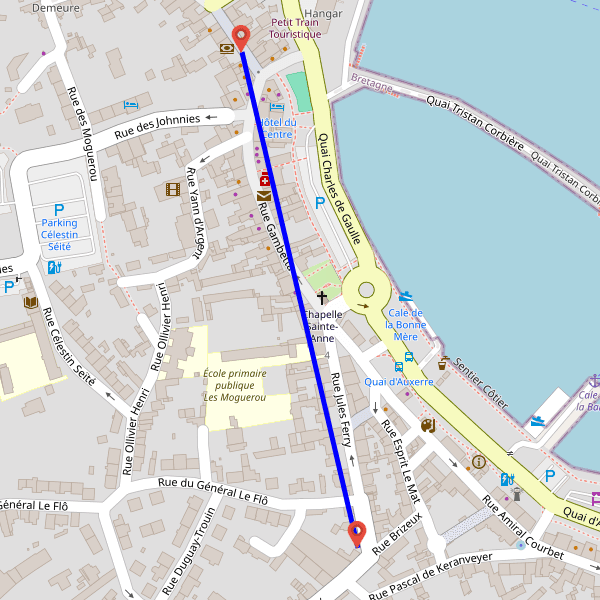
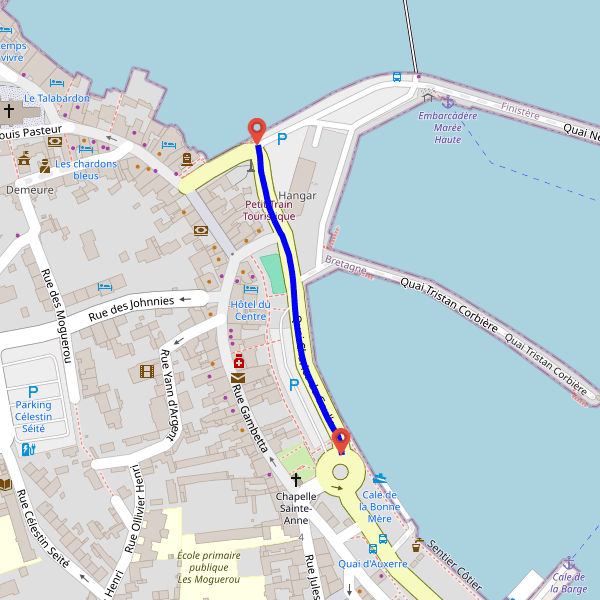
example images

diff --git a/README.md b/README.md
@@ -47,8 +47,8 @@ With the parameter `polyline` you can define a polyline with atleast two pairs o
 `polyline=polylineStyles|polylineLocation1|polylineLocation2|...`
 
 - `weight` - Weight of the polyline in pixels, e.g. `weight:5`
-- `color` - 24-Bit-color hex value, e.g. `color:0xFFFFCC`
-- `polylineLocation` - in format {lat},{lon} and seperated by `|`. Atleast two locations are needed to draw a polyline.
+- `color` - 24-Bit-color hex value, e.g. `color:0000ff`
+- `polylineLocation` - in format `[lat,lon]` and seperated by `|`. Atleast two locations are needed to draw a polyline.
 
 If coordinates are provided and no zoom option is provided Zoom level `zoom` is being calculated automatically. If both zoom and coordinates are there, provided zoom value is being used.
 
@@ -58,7 +58,7 @@ With the parameter `markers` you can define a one or multiple markers depending 
 
 `markers=markerLocation1|markerLocation2|...`
 
-- `markerLocation` - in format {lat},{lon} and seperated by `|`. Atleast one locations is needed to draw a marker.
+- `markerLocation` - in format `[lat,lon]` and seperated by `|`. Atleast one locations is needed to draw a marker.
 
 ## Deployment
 
@@ -83,7 +83,7 @@ npm run start
   <p>http://localhost:3000/staticmaps?center=-119.49280,37.81084</p>
 </details>
 
-![Minimal example: only `center`](https://github.com/dietrichmax/docker-staticmaps/blob/main/examples/minimalexample.png "screenshot of minimal example: only `center`")
+![Minimal example: only `center`](https://raw.githubusercontent.com/dietrichmax/docker-staticmaps/refs/heads/main/examples/minimalexample.png "screenshot of minimal example: only `center`")
 
 <details>
   <summary>`width=500`, `height=500`, `center=-73.99515,40.76761`, zoom=10`, `format=webp`, `basemap=carto-voyager`</summary>
@@ -93,28 +93,28 @@ npm run start
 ![example request 2](https://raw.githubusercontent.com/dietrichmax/docker-staticmaps/refs/heads/main/examples/example2.webp "example request 2")
 
 <details>
-  <summary>Polyline with no `zoom`, weight:6` and `color:0000ff`</summary>
+  <summary>Polyline with no `zoom`, `weight:6` and `color:0000ff`</summary>
     <p>
     http://localhost:3000/staticmaps?width=600&height=600&polyline=weight:6|color:0000ff|48.726304979176675,-3.9829935637739382|48.72623035828412,-3.9829726446543385|48.726126671101639,-3.9829546542797467|48.725965124843256,-3.9829070729298808|48.725871429380568,-3.9828726793245273|48.725764250990267,-3.9828064532306628|48.725679557682362,-3.9827385375789146|48.72567025076134,-3.9827310750289113|48.725529844164292,-3.9826617613709225|48.725412537198615,-3.9826296635284164|48.725351694726704,-3.9826201452878531|48.725258599474508,-3.9826063049230411|48.725157520450125,-3.9825900299314232|48.725077863838543,-3.9825779905509102|48.724930435729831,-3.9825514102373938|48.724815578113535,-3.9825237355887291|48.724760905376989,-3.9825013965800564|48.724677938456551,-3.9824534296566916|48.724379435330384,-3.9822469276001118|48.724304509274596,-3.9821850264836076|48.7242453124599,-3.9821320570321772|48.724206187829317,-3.9821063430223207|48.724117073204575,-3.9820862134785551
     </p>
   </details>
 
-![No zoom, `polyline=true`, `markers=false`](https://github.com/dietrichmax/docker-staticmaps/blob/main/examples/polylinepath.png)
+![No zoom, `polyline=true`, `markers=false`](https://raw.githubusercontent.com/dietrichmax/docker-staticmaps/refs/heads/main/examples/polylinepath.png)
 
 <details>
   <summary>Markers</summary>
     <p>
-      http://localhost:3000/staticmaps?width=600&height=600&markers=48.725680,-3.983445|48.722170,-3.982201
+      http://localhost:3000/staticmaps?width=600&height=600&markers=48.726304979176675,-3.9829935637739382|48.724117073204575,-3.9820862134785551
     </p>
   </details>
 
-![No zoom, `polyline=true`, `markers=false`](https://github.com/dietrichmax/docker-staticmaps/blob/main/examples/markers.png)
+![No zoom, `polyline=true`, `markers=false`](https://raw.githubusercontent.com/dietrichmax/docker-staticmaps/refs/heads/main/examples/markers.png)
 
 <details>
   <summary>Markers and Polyline</summary>
     <p>
-      http://localhost:3000/staticmaps?width=600&height=600&markers=48.725680,-3.983445|48.722170,-3.982201&polyline=weight:5|color:0000ff|48.725680,-3.983445|48.722170,-3.982201
+      http://localhost:3000/staticmaps?width=600&height=600&polyline=weight:6|color:0000ff|48.726304979176675,-3.9829935637739382|48.72623035828412,-3.9829726446543385|48.726126671101639,-3.9829546542797467|48.725965124843256,-3.9829070729298808|48.725871429380568,-3.9828726793245273|48.725764250990267,-3.9828064532306628|48.725679557682362,-3.9827385375789146|48.72567025076134,-3.9827310750289113|48.725529844164292,-3.9826617613709225|48.725412537198615,-3.9826296635284164|48.725351694726704,-3.9826201452878531|48.725258599474508,-3.9826063049230411|48.725157520450125,-3.9825900299314232|48.725077863838543,-3.9825779905509102|48.724930435729831,-3.9825514102373938|48.724815578113535,-3.9825237355887291|48.724760905376989,-3.9825013965800564|48.724677938456551,-3.9824534296566916|48.724379435330384,-3.9822469276001118|48.724304509274596,-3.9821850264836076|48.7242453124599,-3.9821320570321772|48.724206187829317,-3.9821063430223207|48.724117073204575,-3.9820862134785551&markers=48.726304979176675,-3.9829935637739382|48.724117073204575,-3.9820862134785551
     </p>
   </details>
 
-![No zoom, `polyline=true`, `markers=false`](https://github.com/dietrichmax/docker-staticmaps/blob/main/examples/markersandpolyline.png)
+![No zoom, `polyline=true`, `markers=false`](https://raw.githubusercontent.com/dietrichmax/docker-staticmaps/refs/heads/main/examples/markersandpolyline.png)
